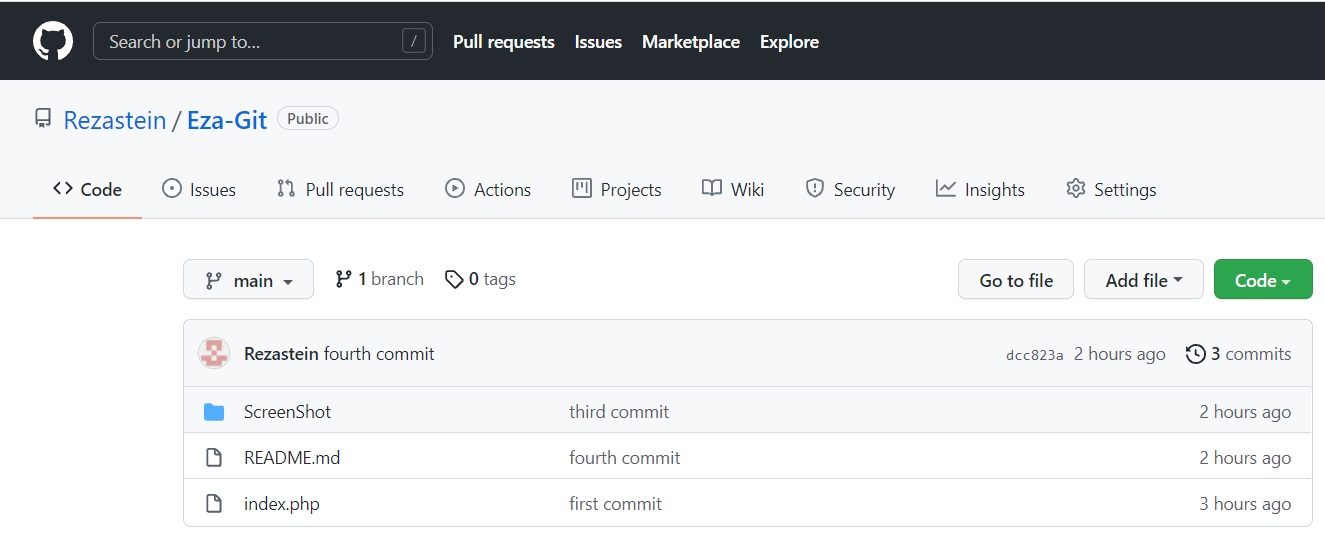
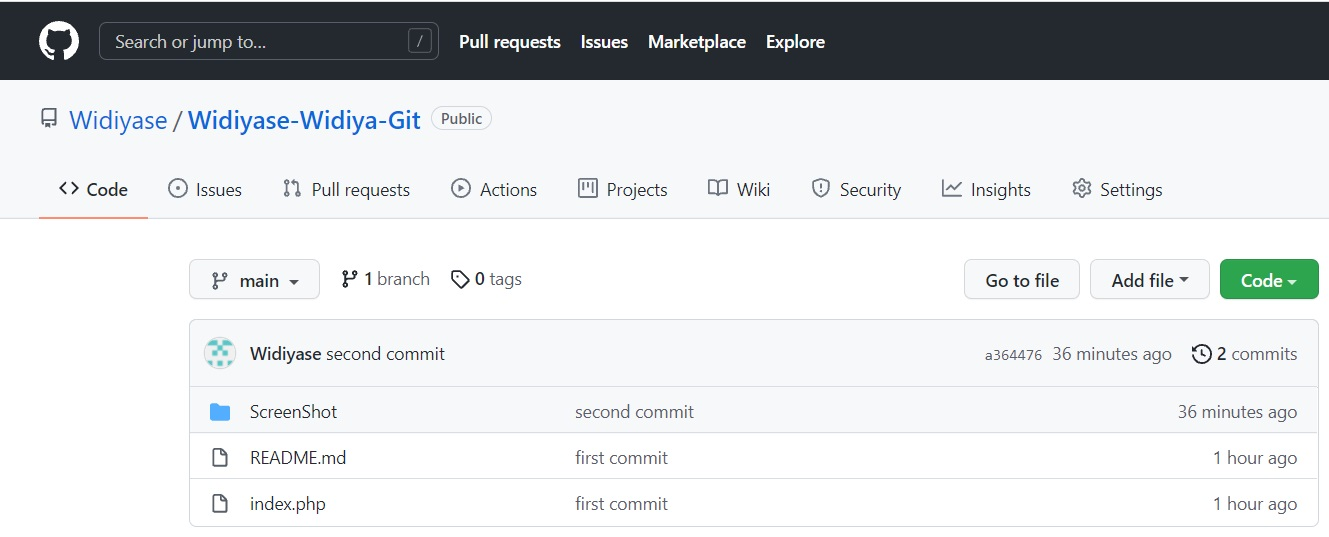
third commit

diff --git a/README.md b/README.md
@@ -100,7 +100,7 @@ bebas membuat membuat nama Commit apa saja.
 Remote repository berfungsi untuk mengupload file yang telah di buat sebelumnya di local disk. Masukkan perintah berikut ini untuk melakukan remote repository:
 ```sh
 git branch -M main
-git remote add origin https://github.com/Rezastein/Eza-Git.git
+git remote add origin https://github.com/Widiyase/Widiyase-Widiya-Git
 ```
 Perintah di atas tidak akan menghasilkan output apa pun.
 
